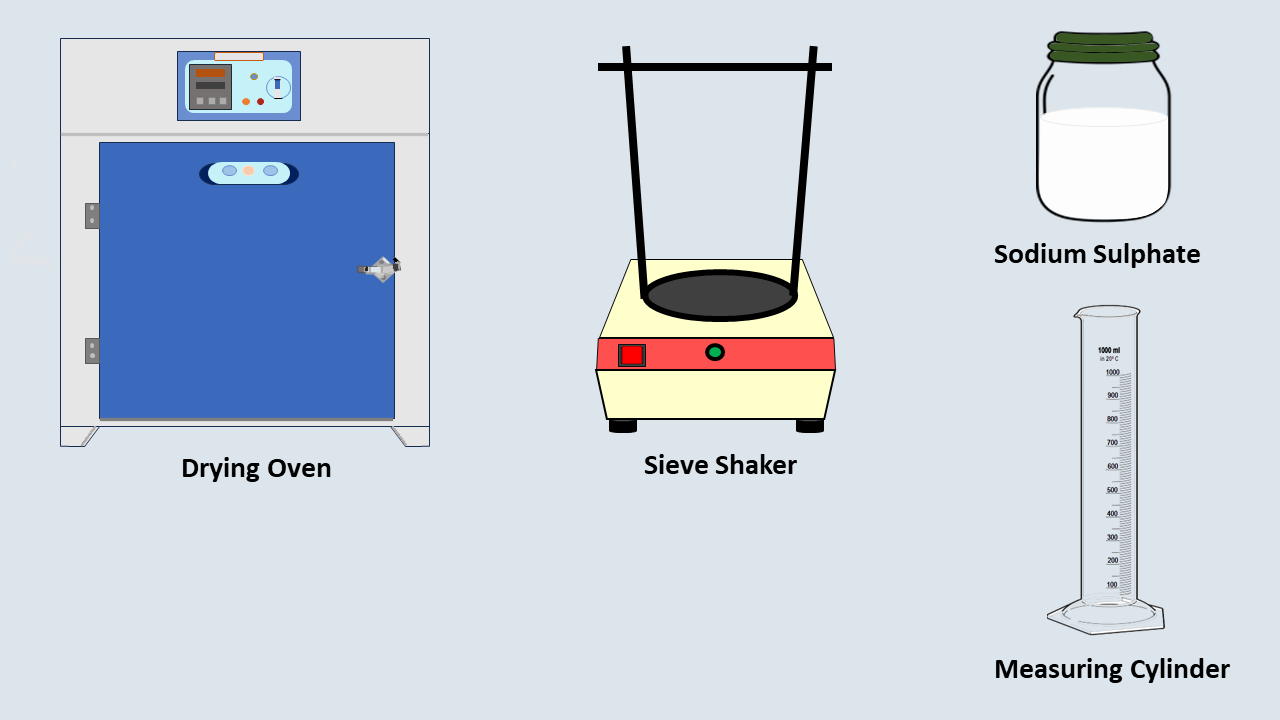
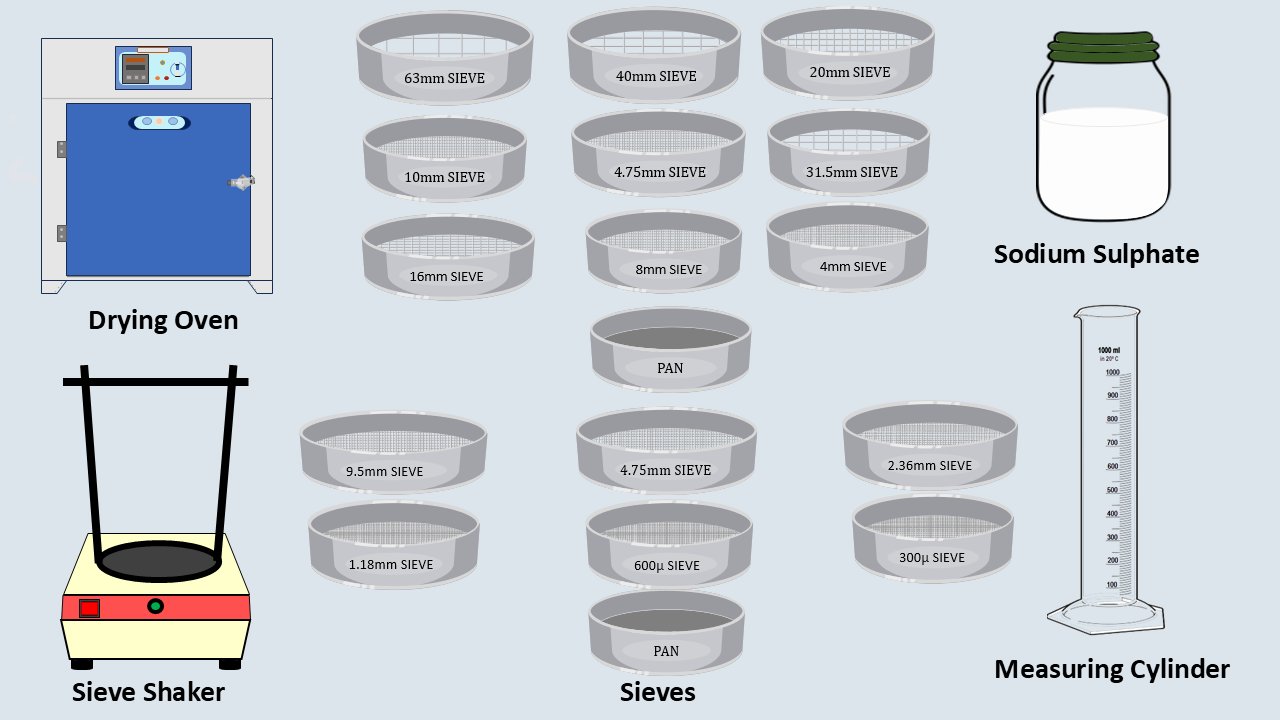
title page updated

diff --git a/experiment/simulation/index.html b/experiment/simulation/index.html
@@ -1,46 +1,53 @@
 <!DOCTYPE html>
 <html lang="en">
-  <head>
-    <meta charset="UTF-8" />
-    <meta name="viewport" content="width=device-width, initial-scale=1.0" />
-    <link
-      href="https://fonts.googleapis.com/css2?family=Open+Sans&amp;family=Raleway&amp;display=swap"
-      rel="stylesheet"
-    />
-    <link rel="icon" href="images/favicon.ico" />
-    <!-- <link rel="stylesheet" href="css/header.css" /> -->
-      <link rel="stylesheet" href="responsive.css">
-    <link rel="stylesheet" href="css/main-content.css" />
-    <link rel="stylesheet" href="css/step1.css" />
 
-    <script src="js/main.js" defer></script>
-    <title>Virtual Labs</title>
-  </head>
-  <body>
-    <main>
-      <div class="simulation-container">
+<head>
+  <meta charset="UTF-8" />
+  <meta name="viewport" content="width=device-width, initial-scale=1.0" />
+  <link href="https://fonts.googleapis.com/css2?family=Open+Sans&amp;family=Raleway&amp;display=swap"
+    rel="stylesheet" />
+  <link rel="icon" href="images/favicon.ico" />
+  <!-- <link rel="stylesheet" href="css/header.css" /> -->
+  <link rel="stylesheet" href="responsive.css">
+  <link rel="stylesheet" href="css/main-content.css" />
+  <link rel="stylesheet" href="css/step1.css" />
 
-        <h2 class="title">Soundness test of aggregates</h2>
-        
+  <script src="js/main.js" defer></script>
+  <title>Virtual Labs</title>
+</head>
 
-        <!-- mainStep  -->
+<body>
+  <main>
+    <div class="simulation-container">
 
-        <div class="content-container" id="mainStep" style="visibility: visible;">
-            <h3 class="instruction-main" style>Objective:</h3>
+      <h2 class="title">Soundness test of aggregates</h2>
 
-            <p class="content-main" id="content">To determine the soundness of fine and coarse aggregates.</p>
 
-            <h3 class="instruction-main" style="top: 100px; width: 300px;">Material Used:</h3>
+      <!-- mainStep  -->
 
-            <p class="instruments">
-              Sieve Shaker, aggregates, sieves of following sizes- 25mm, 20mm, 16mm, 12.5mm, 10 mm and a pan.
-            </p>
+      <div class="content-container" id="mainStep" style="visibility: visible;">
+        <h3 class="instruction-main" style>Objective:</h3>
 
-            <img class="instruments-img" id="instruments-img-1" src="images/instruments.png" alt="Instruments"/>
+        <p class="content-main" id="content">To determine the soundness of fine and coarse aggregates.</p>
 
-            <button class="next-exp" id="nextToStep1">Start</button>
-        </div>
+        <h3 class="instruction-main" style="top: 60px; width: 300px;">Apparatus Used:</h3>
+
+        <p class="instruments" style="top: 60px;left: 160px;">
+          Sieve shaker, oven, wire bucket, measuring cylinder, sieves of following sizes- 25mm, 20mm, 16mm, 12.5mm, 10 mm and a pan.
+        </p>
+
+        <h3 class="instruction-main" style="top: 110px; width: 300px;">Material Used:</h3>
+
+        <p class="instruments" style="top: 110px;left: 140px;">
+          Aggregates, sodium sulphate.
+        </p>
+
+        <img class="instruments-img" id="instruments-img-1" src="images/instruments.png" alt="Instruments" />
+
+        <button class="next-exp" id="nextToStep1">Start</button>
       </div>
-    </main>
-  </body>
+    </div>
+  </main>
+</body>
+
 </html>

diff --git a/experiment/simulation/css/main-content.css b/experiment/simulation/css/main-content.css
@@ -40,8 +40,8 @@ main{
     position: absolute;
     display: inline-block;
     text-align: justify;
-    top: 30px;
-    left: 100px;
+    top: 20px;
+    left: 105px;
     width: 690px;
     font-size: 18px;
 }
@@ -50,8 +50,8 @@ main{
     position: absolute;
     display: inline-block;
     text-align: justify;
+    margin-left: 5px;
     top: 100px;
-    left: 175px;
     width: 610px;
     font-size: 18px;
 }
@@ -59,7 +59,7 @@ main{
 .instruction-main{
     position: absolute;
     display: inline-block;
-    top: 30px;
+    top: 20px;
 }
 
 /* TEXT  */
@@ -89,9 +89,9 @@ main{
 
 .instruments-img{
     position: absolute;
-    width: 600px;
+    width: 700px;
     left: 0px;
-    top: 200px;
+    top: 170px;
 }
 
 .exp-image-section, .exp-image-section-gifs{
